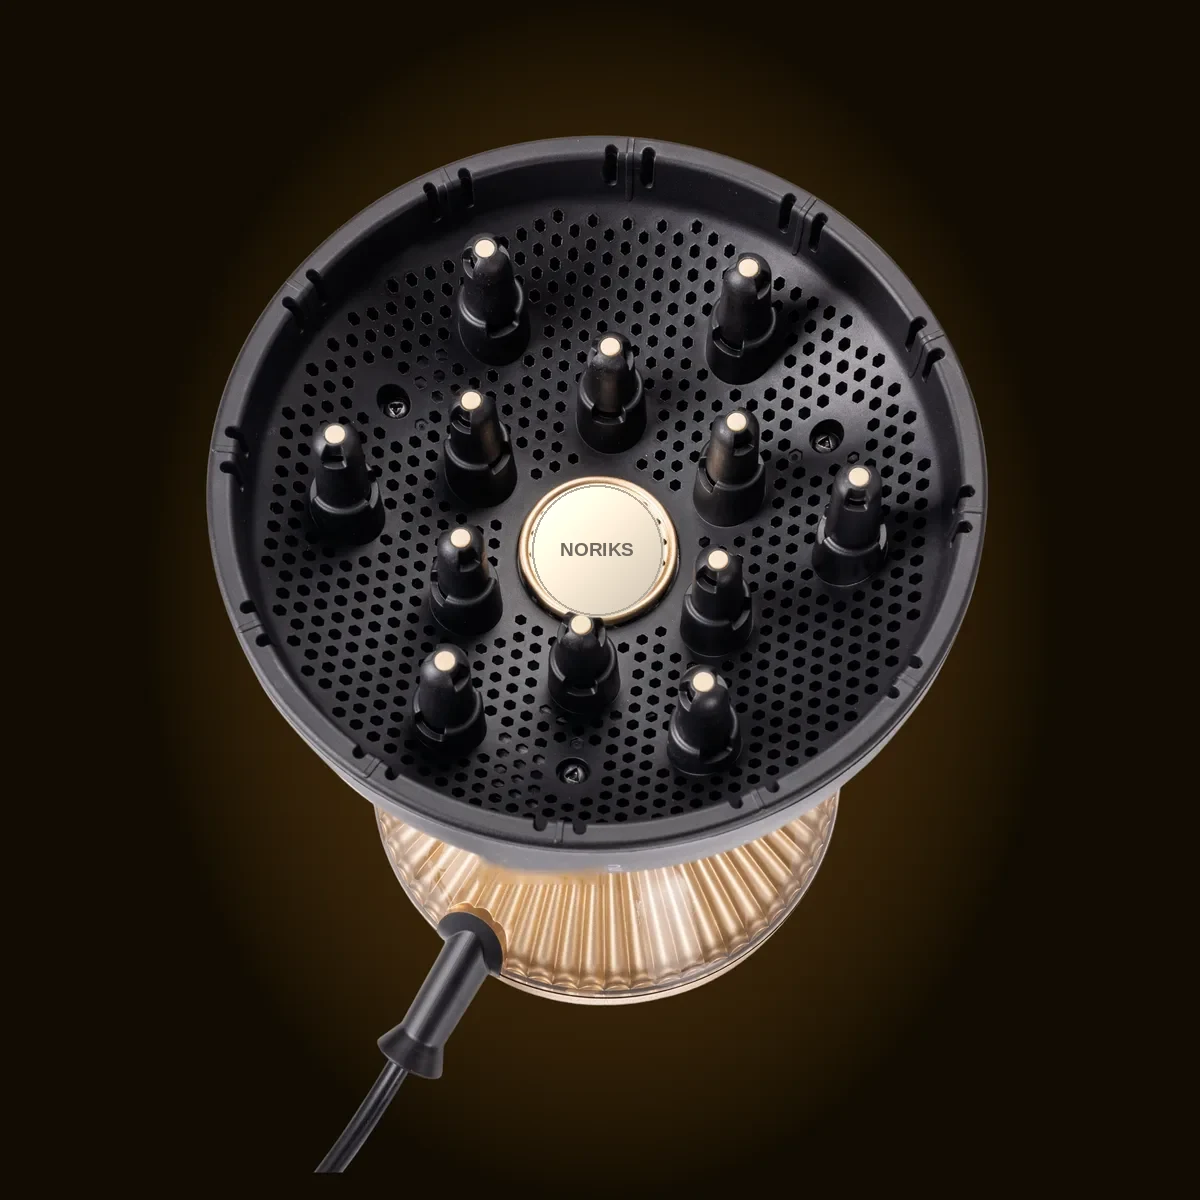
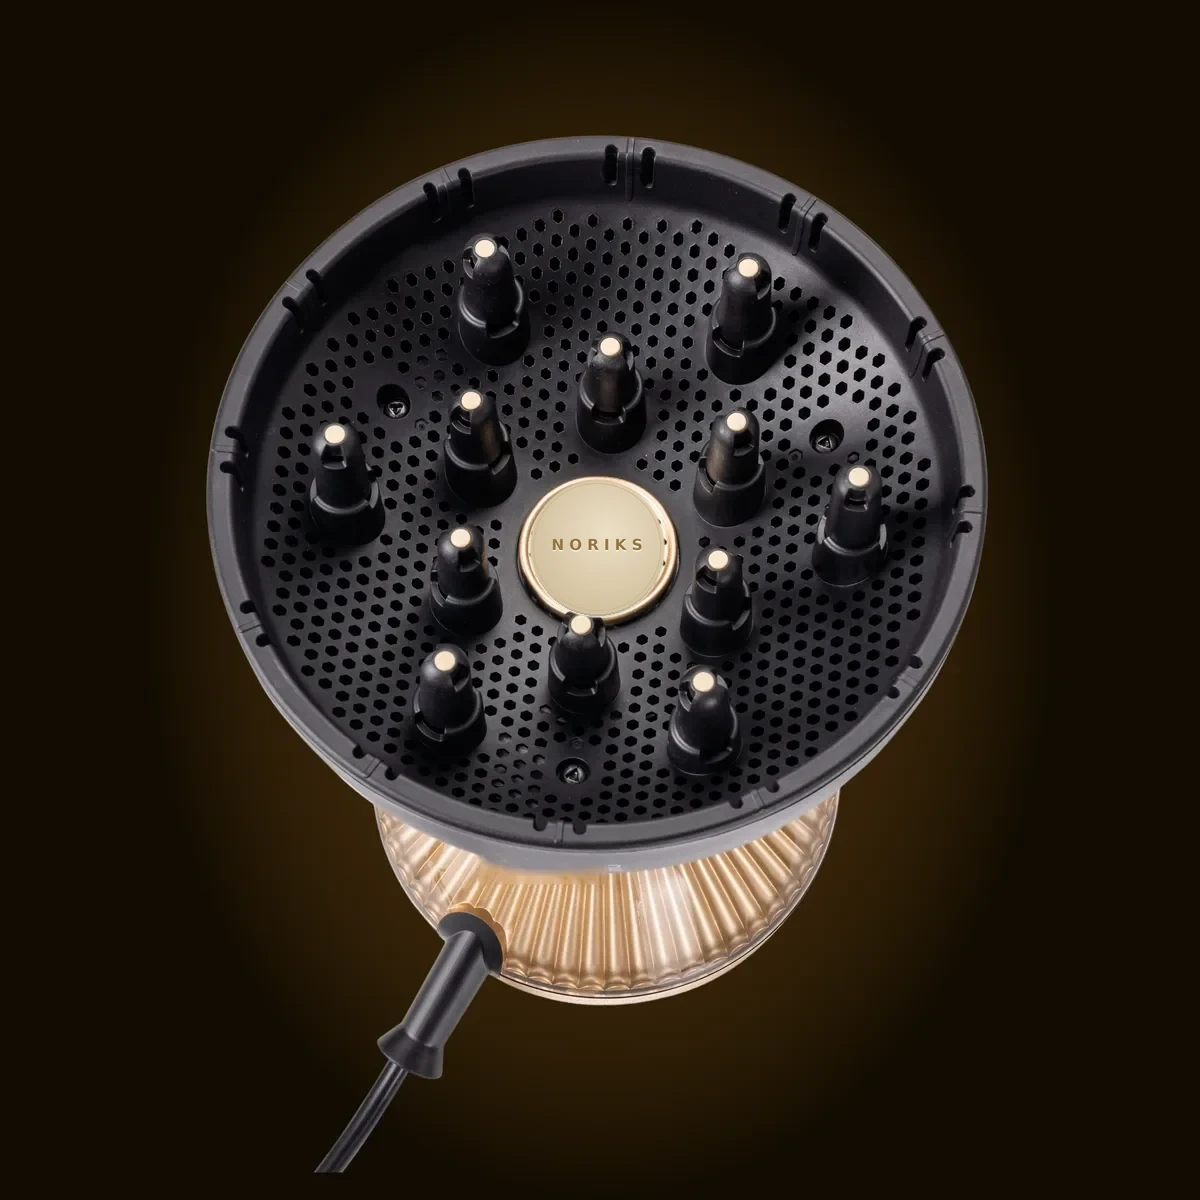
Supreme: slika 04 brez tujega emblema na sredini mrezice, napis NORIKS na zadnji plosci v zlatem tisku (prej siv in pikcast), medalja na XL zdjeli kot vgravirana zlata ploscica, why slike z verzijo (v=s0411), da se ne kaze predpomnjena stara slika z emblemom - Mitja nasel ostanke tuje znamke

Changed region(s): [[0.4317, 0.4008, 0.555, 0.5242]]

diff --git a/wp-content/themes/noriks/template_parts/product-bottom/why-supreme.php b/wp-content/themes/noriks/template_parts/product-bottom/why-supreme.php
@@ -15,7 +15,7 @@
  */
 if ( ! defined( 'ABSPATH' ) ) { exit; }
 $wsu_t   = get_template_directory_uri();
-$wsu_i   = function ( $f ) use ( $wsu_t ) { return esc_url( $wsu_t . '/img/supreme/' . $f ); };
+$wsu_i   = function ( $f ) use ( $wsu_t ) { return esc_url( $wsu_t . '/img/supreme/' . $f . '?v=s0411' ); };
 $wsu_svg = '<svg viewBox="0 0 24 24" width="24" height="24" fill="none" stroke="currentColor" stroke-width="1.8" stroke-linecap="round" stroke-linejoin="round" aria-hidden="true">';
 ?>
 <div class="wsu">
@@ -28,7 +28,7 @@ $wsu_svg = '<svg viewBox="0 0 24 24" width="24" height="24" fill="none" stroke="
     <figure class="wsu__zk"><div class="wsu__zm"><img src="<?php echo $wsu_i( 'noriks-supreme-02-prije-poslije.webp' ); ?>" alt="Kovrčava kosa prije i poslije sušenja s NORIKS Supreme" loading="eager" decoding="async"><span class="wsu__znacka">Prije / poslije</span></div><figcaption><strong>Definirane kovrče</strong><span>bez frizza, s jasnim uvojcima</span></figcaption></figure>
     <figure class="wsu__zk"><div class="wsu__zm"><video src="<?php echo esc_url( $wsu_t . '/img/supreme/noriks-supreme-video-susenje.mp4?v=s0311b' ); ?>" poster="<?php echo esc_url( $wsu_t . '/img/supreme/noriks-supreme-video-susenje.jpg?v=s0311b' ); ?>" autoplay muted loop playsinline webkit-playsinline preload="metadata" aria-label="Sušenje valovite kose s NORIKS Supreme sušilom s difuzorom"></video><span class="wsu__znacka">Video</span></div><figcaption><strong>Kovrče s volumenom</strong><span>difuzor nosi kosu od vrhova do korijena</span></figcaption></figure>
     <figure class="wsu__zk"><div class="wsu__zm"><img src="<?php echo $wsu_i( 'noriks-supreme-05-definirane-kovrce-zlato.webp' ); ?>" alt="Žena s gustim kovrčama drži NORIKS Supreme sušilo" loading="eager" decoding="async"></div><figcaption><strong>Kovrče koje odskaču</strong><span>mekane, sjajne i elastične</span></figcaption></figure>
-    <figure class="wsu__zk"><div class="wsu__zm"><img src="<?php echo $wsu_i( 'noriks-supreme-04-u-ruci-zlato.webp' ); ?>" alt="NORIKS Supreme sušilo s XL difuzorom u ruci" loading="eager" decoding="async"></div><figcaption><strong>Sve u jednoj ruci</strong><span>sušilo i XL difuzor kao jedan aparat</span></figcaption></figure>
+    <figure class="wsu__zk"><div class="wsu__zm"><img src="<?php echo $wsu_i( 'noriks-supreme-04-u-ruci-zlato2.webp' ); ?>" alt="NORIKS Supreme sušilo s XL difuzorom u ruci" loading="eager" decoding="async"></div><figcaption><strong>Sve u jednoj ruci</strong><span>sušilo i XL difuzor kao jedan aparat</span></figcaption></figure>
   </div>
 </div></section>
 
